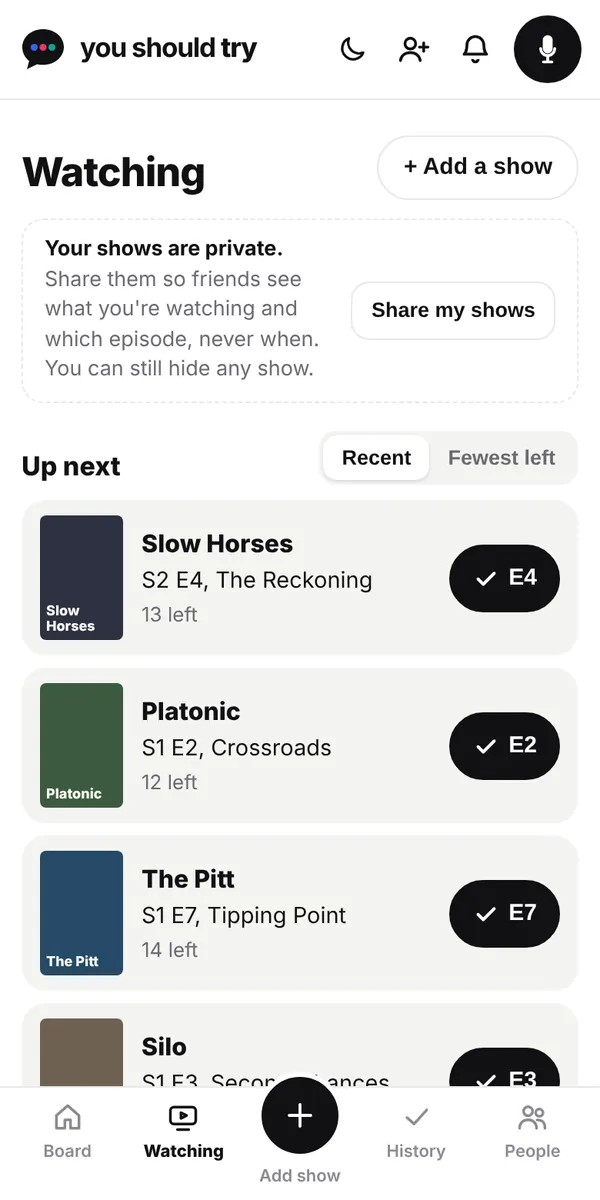
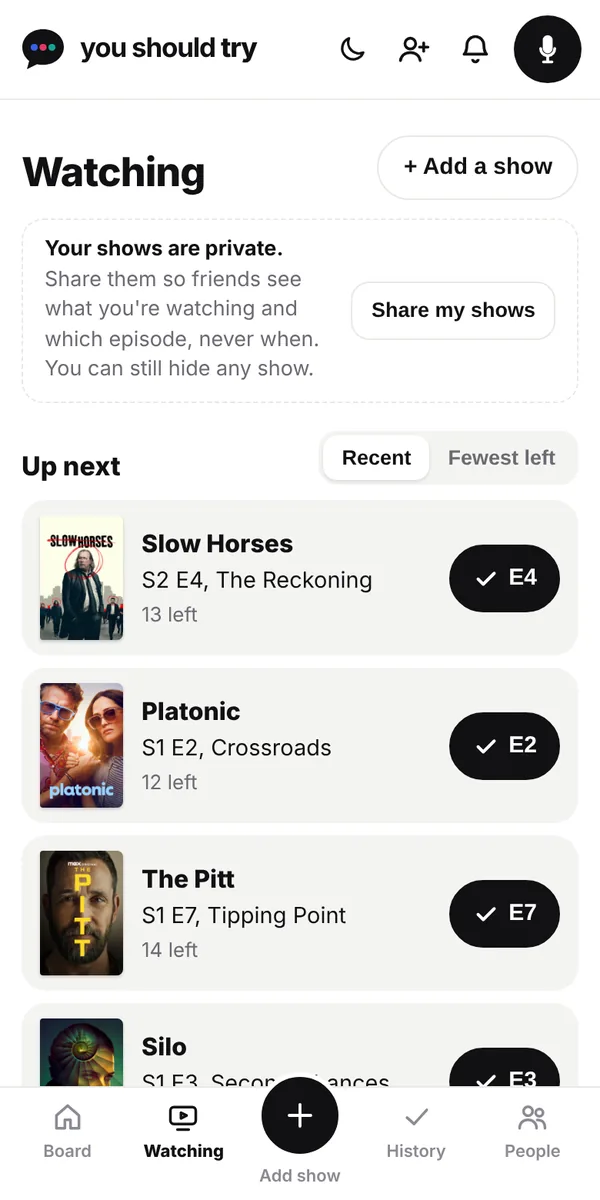
Welcome screenshots with real covers
Claude-Session: https://claude.ai/code/session_016zQ7TN1gWL6SNzt7zahLyT

Changed region(s): [[0.06, 0.4317, 0.21, 0.6783], [0.06, 0.7092, 0.21, 0.925]]

diff --git a/src/lib/components/Welcome.svelte b/src/lib/components/Welcome.svelte
@@ -47,7 +47,7 @@
   <ol class="steps">
     {#each steps as s, i}
       <li class="step" class:flip={i % 2 === 1}>
-        <figure class="phone"><img src="/tour/{s.img}.webp?v=2" alt={s.alt} width="600" height="1200" loading={i ? 'lazy' : 'eager'} /></figure>
+        <figure class="phone"><img src="/tour/{s.img}.webp?v=3" alt={s.alt} width="600" height="1200" loading={i ? 'lazy' : 'eager'} /></figure>
         <div class="txt">
           <h3>{s.title}</h3>
           <p>{s.body}</p>
